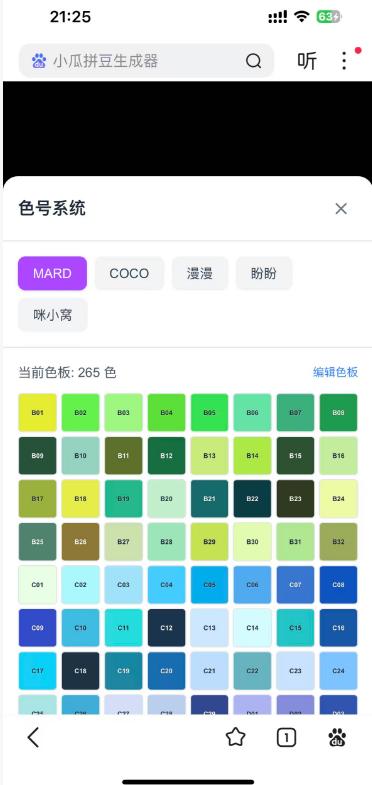
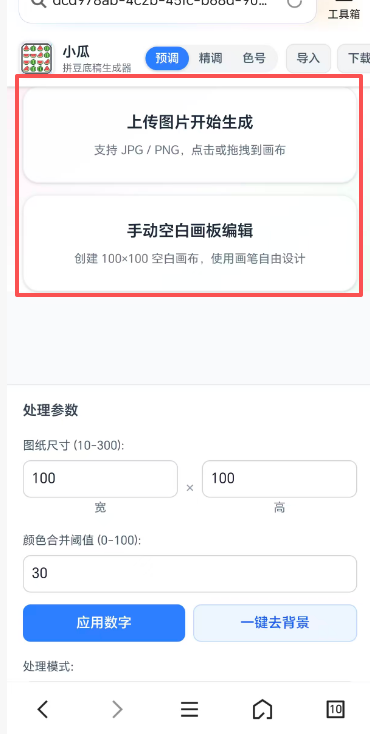
fix: 修复移动端画布居中、iOS缩放丢失图片、iOS下载0kb问题
1. 移动端初始按钮居中显示
   - 修复移动端初始状态下两个按钮的居中显示问题
   - 将 flex-1 改为 h-full 确保在 h-1/2 容器中正确居中

2. iOS设备缩放画布丢失图片问题
   - 添加 isIOS() 设备检测函数
   - 定义 iOS canvas 最大尺寸限制（3800px）和最大面积限制（14MB）
   - 在 canvas 绘制时检测并限制尺寸
   - 在触摸缩放时限制最大缩放比例

3. iOS设备下载图纸0kb问题
   - 在下载时检测 iOS 设备
   - 如果预估 canvas 尺寸超过限制，自动降低单元格大小
   - 最小单元格大小设为 10px，确保图纸仍可使用

diff --git a/src/components/PixelatedPreviewCanvas.tsx b/src/components/PixelatedPreviewCanvas.tsx
@@ -7,6 +7,17 @@ import { getColorKeyByHex, ColorSystem } from '../utils/colorSystemUtils';
 // 工具类型
 type ToolType = 'brush' | 'eraser' | 'picker' | 'fill' | 'line' | 'rectangle' | 'select' | 'move' | 'hand';
 
+// iOS 设备检测
+const isIOS = (): boolean => {
+  if (typeof window === 'undefined') return false;
+  return /iPad|iPhone|iPod/.test(navigator.userAgent) || 
+    (navigator.platform === 'MacIntel' && navigator.maxTouchPoints > 1);
+};
+
+// iOS canvas 最大尺寸限制（iOS 14+ 约为 4096x4096，但实际受内存限制更小）
+const IOS_MAX_CANVAS_DIMENSION = 3800;
+const IOS_MAX_CANVAS_AREA = 14000000; // 约 14MB 像素
+
 interface PixelatedPreviewCanvasProps {
   mappedPixelData: MappedPixel[][] | null;
   gridDimensions: { N: number; M: number } | null;
@@ -758,8 +769,23 @@ const PixelatedPreviewCanvas: React.FC<PixelatedPreviewCanvasProps> = ({
       const canvas = canvasRef.current;
       const baseWidth = gridDimensions.N * baseCellSize;
       const baseHeight = gridDimensions.M * baseCellSize;
-      const newWidth = baseWidth * scale;
-      const newHeight = baseHeight * scale;
+      let newWidth = baseWidth * scale;
+      let newHeight = baseHeight * scale;
+      
+      // iOS 设备限制 canvas 尺寸，避免超过内存限制导致空白
+      if (isIOS()) {
+        const canvasArea = newWidth * newHeight;
+        // 如果超过最大面积，按比例缩小
+        if (canvasArea > IOS_MAX_CANVAS_AREA || newWidth > IOS_MAX_CANVAS_DIMENSION || newHeight > IOS_MAX_CANVAS_DIMENSION) {
+          const scaleDownFactor = Math.min(
+            IOS_MAX_CANVAS_DIMENSION / newWidth,
+            IOS_MAX_CANVAS_DIMENSION / newHeight,
+            Math.sqrt(IOS_MAX_CANVAS_AREA / canvasArea)
+          );
+          newWidth = Math.floor(newWidth * scaleDownFactor);
+          newHeight = Math.floor(newHeight * scaleDownFactor);
+        }
+      }
       
       // 设置主canvas尺寸
       if (canvas.width !== newWidth || canvas.height !== newHeight) {
@@ -1301,7 +1327,18 @@ const PixelatedPreviewCanvas: React.FC<PixelatedPreviewCanvasProps> = ({
       const currentOffsetX = offsetXRef.current;
       const currentOffsetY = offsetYRef.current;
       
-      const newScale = Math.min(Math.max(currentScale * zoomFactor, 0.1), 50);
+      let newScale = Math.min(Math.max(currentScale * zoomFactor, 0.1), 50);
+      
+      // iOS 设备限制最大缩放比例，避免 canvas 超过尺寸限制
+      if (isIOS() && gridDimensions) {
+        const maxCanvasDimension = IOS_MAX_CANVAS_DIMENSION;
+        const maxScaleByWidth = maxCanvasDimension / (gridDimensions.N * baseCellSize);
+        const maxScaleByHeight = maxCanvasDimension / (gridDimensions.M * baseCellSize);
+        const maxScaleByArea = Math.sqrt(IOS_MAX_CANVAS_AREA / (gridDimensions.N * baseCellSize * gridDimensions.M * baseCellSize));
+        const maxScale = Math.min(maxScaleByWidth, maxScaleByHeight, maxScaleByArea);
+        newScale = Math.min(newScale, maxScale);
+      }
+      
       const newCenter = { x: (touch1.clientX + touch2.clientX) / 2, y: (touch1.clientY + touch2.clientY) / 2 };
       
       // 计算缩放后的画布尺寸

diff --git a/src/utils/imageDownloader.ts b/src/utils/imageDownloader.ts
@@ -2,6 +2,17 @@ import { GridDownloadOptions } from '../types/downloadTypes';
 import { MappedPixel, PaletteColor } from './pixelation';
 import { getDisplayColorKey, getColorKeyByHex, ColorSystem } from './colorSystemUtils';
 
+// iOS 设备检测
+function isIOS(): boolean {
+  if (typeof window === 'undefined') return false;
+  return /iPad|iPhone|iPod/.test(navigator.userAgent) || 
+    (navigator.platform === 'MacIntel' && navigator.maxTouchPoints > 1);
+}
+
+// iOS canvas 最大尺寸限制
+const IOS_MAX_CANVAS_DIMENSION = 3800;
+const IOS_MAX_CANVAS_AREA = 14000000;
+
 // 用于获取对比色的工具函数 - 从page.tsx复制
 function getContrastColor(hex: string): string {
   const rgb = hexToRgb(hex);
@@ -236,7 +247,25 @@ export async function downloadImage({
   // 主要下载处理函数
   const processDownload = () => {
     const { N, M } = gridDimensions; // 此时已确保gridDimensions不为null
-    const downloadCellSize = 30;
+    let downloadCellSize = 30;
+  
+    // iOS 设备：如果网格尺寸较大，降低单元格大小以避免 canvas 超过尺寸限制
+    if (isIOS()) {
+      // 计算 iOS 设备下的最大单元格大小
+      const estimatedWidth = N * downloadCellSize + 200; // 预留边距
+      const estimatedHeight = M * downloadCellSize + 400; // 预留标题栏、统计区域等
+      const estimatedArea = estimatedWidth * estimatedHeight;
+      
+      if (estimatedArea > IOS_MAX_CANVAS_AREA || estimatedWidth > IOS_MAX_CANVAS_DIMENSION || estimatedHeight > IOS_MAX_CANVAS_DIMENSION) {
+        // 按比例降低单元格大小
+        const scaleByWidth = (IOS_MAX_CANVAS_DIMENSION - 200) / (N * downloadCellSize);
+        const scaleByHeight = (IOS_MAX_CANVAS_DIMENSION - 400) / (M * downloadCellSize);
+        const scaleByArea = Math.sqrt(IOS_MAX_CANVAS_AREA / (estimatedWidth * estimatedHeight));
+        const scaleFactor = Math.min(scaleByWidth, scaleByHeight, scaleByArea, 1);
+        downloadCellSize = Math.max(10, Math.floor(downloadCellSize * scaleFactor)); // 最小 10px
+        console.log(`iOS 设备：降低单元格大小到 ${downloadCellSize}px 以避免 canvas 超限`);
+      }
+    }
   
     // 从下载选项中获取设置
     const { showGrid, gridInterval, showCoordinates, gridLineColor, includeStats, showCellNumbers = true } = options;

diff --git a/src/app/workstation/page.tsx b/src/app/workstation/page.tsx
@@ -2461,7 +2461,7 @@ export default function Workstation() {
               </div>
               
               {/* 移动端：两个大按钮 */}
-              <div className="lg:hidden flex-1 flex flex-col items-center justify-center px-4 gap-3 bg-gradient-to-br from-pink-50 via-white to-green-50 dark:from-gray-800 dark:via-gray-900 dark:to-gray-800">
+              <div className="lg:hidden h-full flex flex-col items-center justify-center px-4 gap-3 bg-gradient-to-br from-pink-50 via-white to-green-50 dark:from-gray-800 dark:via-gray-900 dark:to-gray-800">
                 <button
                   onClick={triggerFileInput}
                   className="w-full max-w-sm p-6 bg-white/90 dark:bg-gray-800/90 backdrop-blur rounded-2xl shadow-sm border border-gray-200/60 dark:border-gray-700/60 text-center hover:shadow-md transition-shadow"